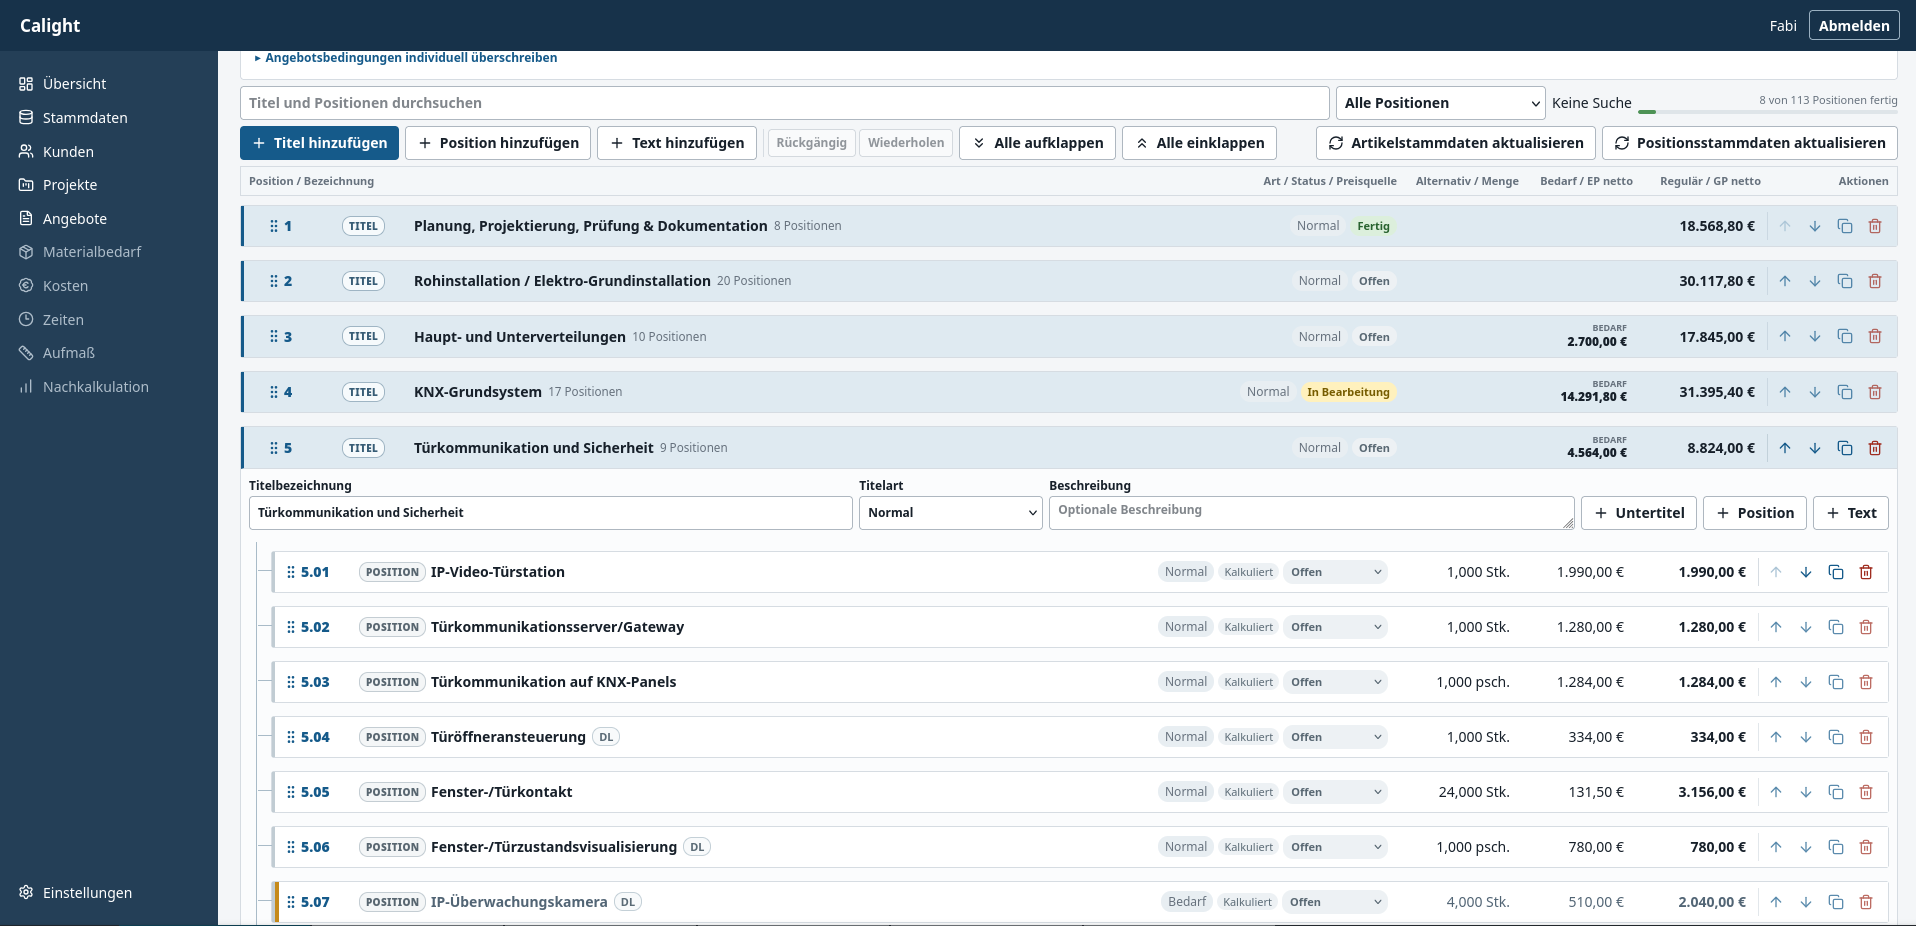
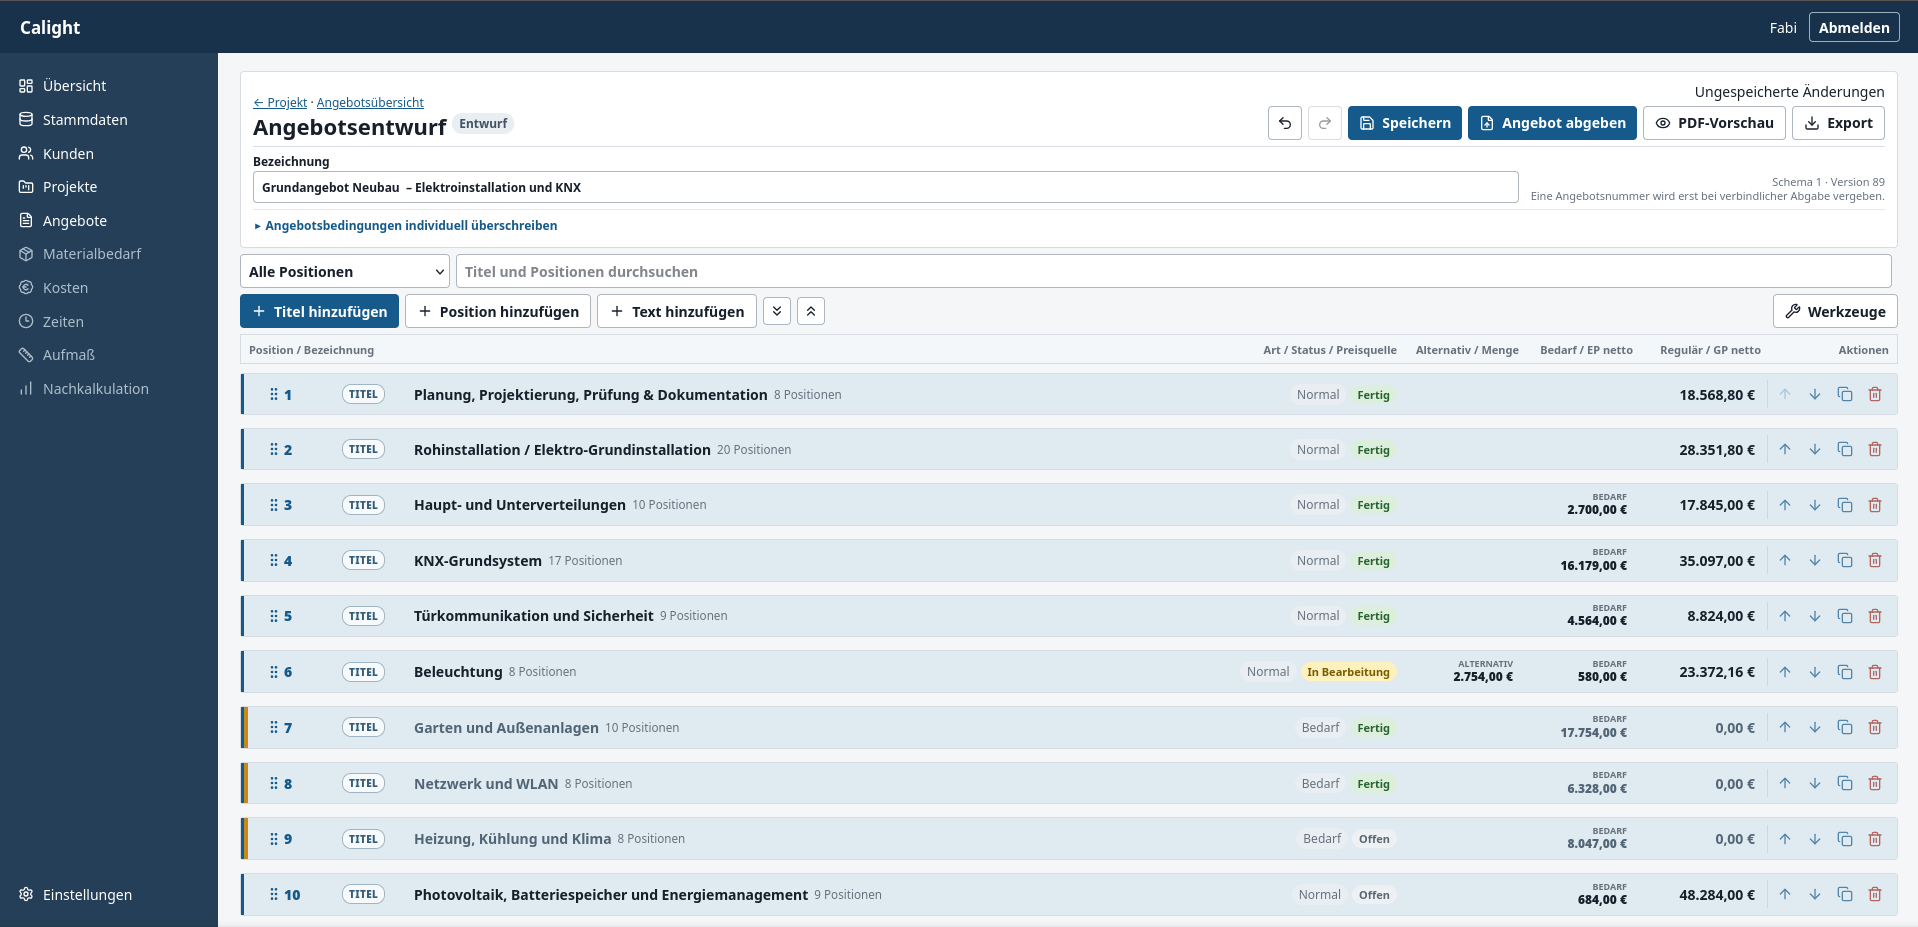
fix: minor fixes in template and docs

diff --git a/app/public/assets/offer-editor.js b/app/public/assets/offer-editor.js
@@ -85,7 +85,7 @@
     );
   toolbar.insertAdjacentHTML(
     "beforebegin",
-    '<div class="offer-search"><label><span class="visually-hidden">Angebot durchsuchen</span><input type="search" data-offer-search placeholder="Titel und Positionen durchsuchen"></label><label class="offer-status-filter"><span class="visually-hidden">Positionen filtern</span><select data-work-status-filter><option value="">Alle Positionen</option><optgroup label="Bearbeitungsstatus"><option value="open">Offen</option><option value="in_progress">In Bearbeitung</option><option value="done">Fertig</option></optgroup><optgroup label="Kalkulationsqualität"><option value="incomplete">Kostenbasis unvollständig</option><option value="incomplete_included">Unvollständig und regulär enthalten</option></optgroup></select></label><span data-search-count>Keine Suche</span><div class="offer-progress" data-offer-progress></div><div class="offer-search-results" data-search-results hidden></div></div>',
+    '<div class="offer-search"><label class="offer-status-filter"><span class="visually-hidden">Positionen filtern</span><select data-work-status-filter><option value="">Alle Positionen</option><optgroup label="Bearbeitungsstatus"><option value="open">Offen</option><option value="in_progress">In Bearbeitung</option><option value="done">Fertig</option></optgroup><optgroup label="Kalkulationsqualität"><option value="incomplete">Kostenbasis unvollständig</option><option value="incomplete_included">Unvollständig und regulär enthalten</option></optgroup></select></label><div class="offer-search-query"><label><span class="visually-hidden">Angebot durchsuchen</span><input type="search" data-offer-search placeholder="Titel und Positionen durchsuchen"></label><button class="offer-search-clear" type="button" data-search-clear aria-label="Suchfeld leeren" title="Suchfeld leeren" hidden>×</button><div class="offer-search-results" data-search-results hidden></div></div><span data-search-count hidden></span></div>',
   );
   structureScroll.insertAdjacentHTML(
     "afterend",
@@ -95,7 +95,7 @@
     searchInput = root.querySelector("[data-offer-search]"),
     statusFilter = root.querySelector("[data-work-status-filter]"),
     searchCount = root.querySelector("[data-search-count]"),
-    progressOutput = root.querySelector("[data-offer-progress]"),
+    searchClear = root.querySelector("[data-search-clear]"),
     searchResults = root.querySelector("[data-search-results]");
   function uuid() {
     if (globalThis.crypto?.randomUUID) return crypto.randomUUID();
@@ -621,7 +621,6 @@
       }
     });
     applySearchHighlights();
-    updateProgress();
     updateOfferTotal();
     applyReadOnlyState();
   }
@@ -645,10 +644,6 @@
     saveButton.hidden = true;
     undoButton.hidden = true;
     redoButton.hidden = true;
-  }
-  function updateProgress() {
-    const progress = CalightOfferStatus.progress(offer.nodes);
-    progressOutput.innerHTML = `<span>${progress.done} von ${progress.total} Positionen fertig</span><span class="offer-progress-track" aria-hidden="true"><i class="${percentClass(progress.percent)}"></i></span>`;
   }
   function updateOfferTotal() {
     let out = document.querySelector("#offer-summary-footer");
@@ -756,7 +751,9 @@
     searchQuery = value;
     const hits = searchHits();
     if (value) for (const hit of hits) openAncestors(hit.id);
-    searchCount.textContent = value ? `${hits.length} Treffer` : "Keine Suche";
+    searchCount.hidden = !value;
+    searchCount.textContent = value ? `${hits.length} Treffer` : "";
+    searchClear.hidden = !value;
     searchResults.hidden = !value || hits.length === 0;
     searchResults.innerHTML = hits
       .map(
@@ -1912,6 +1909,11 @@
     markDirty({ group: inputHistoryGroup(event.target) });
   });
   searchInput.addEventListener("input", runSearch);
+  searchClear.addEventListener("click", () => {
+    searchInput.value = "";
+    runSearch();
+    searchInput.focus();
+  });
   searchResults.addEventListener("click", (event) => {
     const button = event.target.closest("[data-search-target]");
     if (!button) return;

diff --git a/app/public/assets/app.css b/app/public/assets/app.css
@@ -440,9 +440,6 @@ th, td { padding: 7px 8px; border-bottom: 1px solid var(--border); text-align: l
 .offer-position-node[open] > summary { border-left-color: #7c97a8; background: #f8fafb; }
 .offer-position-node.offer-calculation-incomplete > summary { box-shadow: inset 4px 0 #d3a52a; }
 .offer-status-filter select { min-height: var(--control-height); }
-.offer-progress { display: grid; min-width: 190px; gap: 3px; color: var(--muted); font-size: 11px; text-align: right; white-space: nowrap; }
-.offer-progress-track { display: block; height: 4px; overflow: hidden; border-radius: 3px; background: #dfe5e9; }
-.offer-progress-track i { display: block; height: 100%; border-radius: inherit; background: #4d9255; transition: width .2s ease; }
 .offer-summary-footer { margin-top: var(--space-3); }
 .offer-summary-footer .offer-net-total { margin-top: 0; }
 .offer-adjustment-details { border: 1px solid var(--border); border-top: 0; background: white; }
@@ -713,7 +710,6 @@ th, td { padding: 7px 8px; border-bottom: 1px solid var(--border); text-align: l
     .component-summary > :nth-child(n+3) { text-align: left; }
     .offer-children { margin-left: 3px; padding-left: 9px; }
     .offer-children > .offer-node::before { left: -9px; width: 9px; }
-    .offer-progress { text-align: left; }
     .offer-analysis-grid, .offer-analysis-charts { grid-template-columns: 1fr; }
     .offer-calculation-overview > summary { align-items: flex-start; flex-direction: column; }
     .project-detail-head, .project-facts, .project-offer-layout, .compact-action-form { grid-template-columns: 1fr; }
@@ -761,8 +757,14 @@ th, td { padding: 7px 8px; border-bottom: 1px solid var(--border); text-align: l
     background: var(--panel);
 }
 #offer-editor .offer-title-edit-row { grid-template-columns: minmax(230px, 1.15fr) minmax(120px, .35fr) minmax(220px, 1fr) auto; }
-#offer-editor .offer-search { position: relative; display: grid; grid-template-columns: minmax(260px, 1fr) minmax(160px, 210px) auto minmax(190px, 260px); align-items: center; gap: var(--space-2); margin: var(--space-2) 0; }
+#offer-editor .offer-search { display: grid; grid-template-columns: minmax(160px, 210px) minmax(260px, 1fr) auto; align-items: center; gap: var(--space-2); margin: var(--space-2) 0; }
 #offer-editor .offer-search label { min-width: 0; }
+#offer-editor .offer-search-query { position: relative; min-width: 0; }
+#offer-editor .offer-search-query label, #offer-editor .offer-search-query input { display: block; width: 100%; }
+#offer-editor .offer-search-query input { padding-right: 34px; }
+#offer-editor .offer-search-query input::-webkit-search-cancel-button { appearance: none; }
+#offer-editor .offer-search-clear { position: absolute; z-index: 2; top: 50%; right: 5px; width: 26px; height: 26px; padding: 0; transform: translateY(-50%); border: 0; border-radius: 4px; background: transparent; color: var(--muted); font-size: 20px; line-height: 1; cursor: pointer; }
+#offer-editor .offer-search-clear:hover, #offer-editor .offer-search-clear:focus-visible { background: #e8eef2; color: var(--text); }
 #offer-editor .offer-search-results { position: absolute; z-index: 20; top: 100%; left: 0; width: min(650px, 100%); max-height: 280px; overflow: auto; border: 1px solid var(--border); background: #fff; box-shadow: 0 8px 22px rgb(16 36 54 / 15%); }
 #offer-editor .offer-search-results button { display: block; width: 100%; padding: var(--space-2); border: 0; border-bottom: 1px solid var(--border); background: transparent; text-align: left; }
 #offer-editor .offer-search-results button:hover { background: #f3f6f8; }

diff --git a/docs/README.md b/docs/README.md
@@ -2,7 +2,6 @@
 
 **Open-Source-Kalkulations- und Angebotssoftware für Handwerk und Dienstleistung.**
 
-![Calight Angebotseditor](images/angebotseditor.png)
 
 Calight ist eine schlanke, selbst gehostete Anwendung zur Erstellung und Kalkulation von Angeboten. Sie richtet sich an Handwerksbetriebe, Einzelunternehmer und Dienstleister, die ihre Leistungen transparent und detailliert kalkulieren möchten.
 
@@ -20,6 +19,51 @@ Calight ist eine schlanke, selbst gehostete Anwendung zur Erstellung und Kalkula
 ## Keine Buchhaltungssoftware
 
 Calight konzentriert sich auf **Kalkulation und Angebotserstellung**. Es soll Buchhaltungs- und Rechnungssoftware wie Lexware ergänzen, nicht ersetzen.
+
+## Auftragsabwicklung
+
+```mermaid
+flowchart TD
+    K["Kunde"]
+    P["Projekt (optional)"]
+    A["Angebot"]
+    AU["Auftrag"]
+    BT["Bautagesbericht"]
+    AM["Aufmaß"]
+    RP["Rapport"]
+    RE["Rechnung<br>(ext.)"]
+    NK["Nachkalkulation"]
+
+    K --> P
+    K --> A
+    P --> A
+
+    K -->|"Direkter Regieauftrag"| AU
+    P -->|"Direkter Regieauftrag"| AU
+    A --> AU
+
+    AU --> BT
+    AU --> AM
+    AU --> RP
+
+    AU -->|"Nachtrag"| NA["Nachtragsangebot"]
+    NA --> AU
+
+    AM --> RE
+    RP --> RE
+
+    BT -->|"Ist-Zeiten und Ist-Kosten"| NK
+    AU -->|"Soll-Kalkulation"| NK
+    RE -->|"Erlöse"| NK
+
+    classDef main fill:#e3effa,stroke:#608bb2,color:#193d5c
+    classDef docs fill:#e6f2e8,stroke:#76a17a,color:#24532b
+    classDef result fill:#fff0d8,stroke:#bd9855,color:#654917
+
+    class K,P,A,AU main
+    class BT,AM,RP,NA docs
+    class RE,NK result
+```
 
 ## Technik
 
